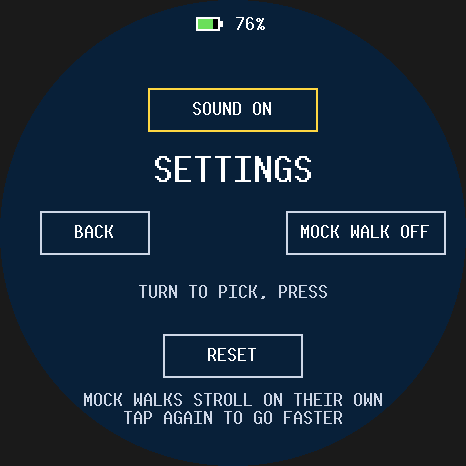
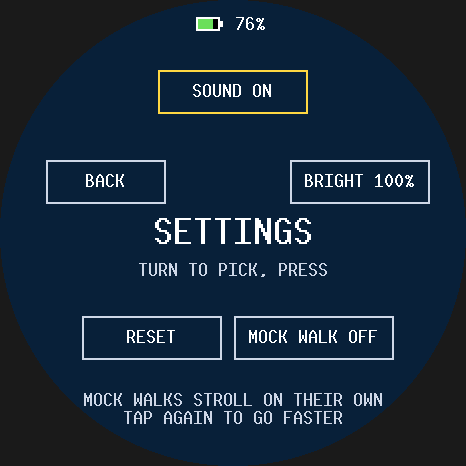
settings: BRIGHT steps the panel through 25, 50, 75 and 100% for every game. Saved in PREF v2 (v1 reads as full); the board reads it from the save each frame and sets register 0x51, idle dims to a quarter of it, and the desktop scales its pixels. The settings dial has five spots now; devlog beat 57

Changed region(s): [[0.0601, 0.3305, 0.9614, 0.8112], [0.3004, 0.1502, 0.691, 0.3004]]

diff --git a/firmware/src/lib.rs b/firmware/src/lib.rs
@@ -52,7 +52,7 @@ use log::{info, warn};
 use orbit_audio::{Mixer, SAMPLE_RATE};
 use orbit_core::{
     Battery, Buttons, Frame, Gps, ImuFeed, ImuSample, Launcher, Mic, Power, Rng, SaveBlob,
-    SoundQueue, Touch,
+    SoundQueue, Touch, preferences,
 };
 use orbit_gfx::{Presenter, Rgb565, SCREEN_SIZE};
 use orbit_save::SlotStore;
@@ -97,7 +97,8 @@ const FRAME_BUDGET: Duration = Duration::from_micros(16_667);
 /// While the game reports itself idle: 20 Hz and a dimmed panel.
 const IDLE_FRAME_BUDGET: Duration = Duration::from_millis(50);
 const FULL_BRIGHTNESS: u8 = 0xFF;
-const IDLE_BRIGHTNESS: u8 = 0x40;
+/// Idle dims the panel to this fraction of the chosen brightness.
+const IDLE_DIVISOR: u16 = 4;
 const BATTERY_POLL_MS: u64 = 5000;
 /// The LC76G reports every second; this long without a byte while an app
 /// listens means it has stalled, and it's restarted.
@@ -358,13 +359,9 @@ impl Board {
         {
             start_mic(&mut speaker.mic, self.bus);
         }
-        if let Err(err) = self.display.set_brightness(FULL_BRIGHTNESS) {
-            warn!("brightness change failed: {err:?}");
-        }
-
         let mut presenter = Presenter::new(vec![0u8; BAND_BYTES], background);
         let mut stats = Stats::new();
-        let mut dimmed = false;
+        let mut brightness = None;
         loop {
             let frame_start = HalInstant::now();
             self.feed_inputs(app.world_mut());
@@ -391,14 +388,13 @@ impl Board {
             if app.should_exit().is_some() {
                 return app;
             }
-            let idle_now = power.is_some_and(|power| power.idle);
-            if idle_now != dimmed {
-                dimmed = idle_now;
-                let level = if dimmed {
-                    IDLE_BRIGHTNESS
-                } else {
-                    FULL_BRIGHTNESS
-                };
+            let dimmed = power.is_some_and(|power| power.idle);
+            let level = panel_brightness(
+                preferences::brightness(app.world().resource::<SaveBlob>()),
+                dimmed,
+            );
+            if brightness != Some(level) {
+                brightness = Some(level);
                 if let Err(err) = self.display.set_brightness(level) {
                     warn!("brightness change failed: {err:?}");
                 }
@@ -665,6 +661,14 @@ fn start_mic(port: &mut MicPort, bus: &'static Bus) {
         }
         Err(err) => warn!("ES7210 init failed ({err:?}); no voice commands"),
     }
+}
+
+/// The panel's brightness register for the chosen `percent`, a quarter of
+/// it while idle (never fully dark).
+fn panel_brightness(percent: u8, idle: bool) -> u8 {
+    let level = u16::from(FULL_BRIGHTNESS) * u16::from(percent) / 100;
+    let level = if idle { level / IDLE_DIVISOR } else { level };
+    level.clamp(1, u16::from(FULL_BRIGHTNESS)) as u8
 }
 
 fn audio_status(audio: &AudioOut) -> String {

diff --git a/crates/pals_game/src/town/draw.rs b/crates/pals_game/src/town/draw.rs
@@ -5,7 +5,7 @@ use alloc::{format, vec::Vec};
 
 use angler_game::sprites::ANGLER;
 use bevy::prelude::*;
-use orbit_core::{Frame, Power, SoundQueue, Tilt};
+use orbit_core::{Frame, Power, SaveBlob, SoundQueue, Tilt, preferences};
 use orbit_gfx::{Point, Rgb565, Shape, SpriteRef};
 use orbit_ui::{
     DANGER, DEEP, GOLD, HINT, TEXT, battery_level, battery_level_on, dial_choice, disc,
@@ -32,6 +32,7 @@ pub(crate) fn draw_frame(
     pals: Res<Pals>,
     tilt: Res<Tilt>,
     sound: Res<SoundQueue>,
+    blob: Res<SaveBlob>,
     power: Res<Power>,
     mut frame: ResMut<Frame>,
 ) {
@@ -47,6 +48,7 @@ pub(crate) fn draw_frame(
             shapes,
             &pals,
             &sound,
+            preferences::brightness(&blob),
             dial_choice(tilt.steer_deg, SETTINGS_CHOICES),
         ),
         TownPhase::ConfirmReset => confirm_reset(shapes, tilt.steer_deg >= ERASE_TURN_DEG),
@@ -136,10 +138,16 @@ fn hud(shapes: &mut Vec<Shape>, town: &Town, pals: &Pals) {
     plated_lines(shapes, lines, GRASS);
 }
 
-fn settings(shapes: &mut Vec<Shape>, pals: &Pals, sound: &SoundQueue, pointed: usize) {
+fn settings(
+    shapes: &mut Vec<Shape>,
+    pals: &Pals,
+    sound: &SoundQueue,
+    brightness: u8,
+    pointed: usize,
+) {
     shapes.push(rect(0, 0, 466, 466, DEEP));
-    shapes.push(label(170, "SETTINGS", 2, TEXT));
-    shapes.push(label(292, "TURN TO PICK, PRESS", 1, HINT));
+    shapes.push(label(232, "SETTINGS", 2, TEXT));
+    shapes.push(label(270, "TURN TO PICK, PRESS", 1, HINT));
     let mock = if pals.mock_walk {
         format!("MOCK WALK x{}", pals::MOCK_PACES[pals.mock_pace] as u32)
     } else {
@@ -150,7 +158,8 @@ fn settings(shapes: &mut Vec<Shape>, pals: &Pals, sound: &SoundQueue, pointed: u
     } else {
         "SOUND ON"
     };
-    let texts = [sound, mock.as_str(), "RESET", "BACK"];
+    let bright = format!("BRIGHT {brightness}%");
+    let texts = [sound, bright.as_str(), mock.as_str(), "RESET", "BACK"];
     for (i, (area, text)) in ui::SETTINGS_BUTTONS.iter().zip(texts).enumerate() {
         let frame = if i == pointed { GOLD } else { HINT };
         labelled_button(shapes, area, text, frame);

diff --git a/crates/orbit_core/src/preferences.rs b/crates/orbit_core/src/preferences.rs
@@ -1,22 +1,48 @@
 //! Settings shared by every game on the board, kept in their own save
-//! section: `version | flags`, bit 0 = muted.
+//! section: `version | flags | brightness`, flags bit 0 = muted, brightness
+//! in percent. Version 1 had no brightness byte and reads as full.
 
 use alloc::vec;
 
 use crate::{SaveBlob, SoundQueue};
 
 pub const KEY: [u8; 4] = *b"PREF";
-const VERSION: u8 = 1;
+const VERSION: u8 = 2;
 const MUTED: u8 = 1 << 0;
+/// The brightnesses the settings step through, in percent.
+pub const BRIGHTNESS_LEVELS: [u8; 4] = [25, 50, 75, 100];
+const FULL: u8 = 100;
 
 pub fn muted(blob: &SaveBlob) -> bool {
+    flags(blob) & MUTED != 0
+}
+
+/// The panel brightness every game shows at, in percent.
+pub fn brightness(blob: &SaveBlob) -> u8 {
     blob.section(&KEY)
-        .and_then(|bytes| bytes.get(1))
-        .is_some_and(|flags| flags & MUTED != 0)
+        .and_then(|bytes| bytes.get(2).copied())
+        .filter(|percent| (1..=FULL).contains(percent))
+        .unwrap_or(FULL)
 }
 
 /// Mutes or unmutes the speaker now and saves the choice for every game.
 pub fn set_muted(blob: &mut SaveBlob, sound: &mut SoundQueue, muted: bool) {
     sound.set_muted(muted);
-    blob.save_section(KEY, vec![VERSION, if muted { MUTED } else { 0 }]);
+    let flags = if muted { MUTED } else { 0 };
+    store(blob, flags, brightness(blob));
+}
+
+/// Saves the panel brightness for every game; the platform applies it.
+pub fn set_brightness(blob: &mut SaveBlob, percent: u8) {
+    store(blob, flags(blob), percent.clamp(1, FULL));
+}
+
+fn flags(blob: &SaveBlob) -> u8 {
+    blob.section(&KEY)
+        .and_then(|bytes| bytes.get(1).copied())
+        .unwrap_or(0)
+}
+
+fn store(blob: &mut SaveBlob, flags: u8, brightness: u8) {
+    blob.save_section(KEY, vec![VERSION, flags, brightness]);
 }

diff --git a/crates/pals_game/src/town/mod.rs b/crates/pals_game/src/town/mod.rs
@@ -45,9 +45,9 @@ const DOOR_REACH: f32 = 40.0;
 /// After coming out of a place or the settings, nothing goes in for this
 /// long, so the press that came out can't go straight back in.
 pub const ENTRY_LOCK_SECS: f32 = 2.0;
-/// Spots on the settings dial, clockwise from 12 o'clock: sound, mock walk,
-/// reset, back.
-pub const SETTINGS_CHOICES: usize = 4;
+/// Spots on the settings dial, clockwise from 12 o'clock: sound, brightness,
+/// mock walk, reset, back.
+pub const SETTINGS_CHOICES: usize = 5;
 /// On the reset question, turning right past this points at ERASE.
 const ERASE_TURN_DEG: f32 = 10.0;
 
@@ -393,6 +393,12 @@ fn roam(
                     preferences::set_muted(&mut blob, &mut sound, muted);
                 }
                 Some(1) => {
+                    let now = preferences::brightness(&blob);
+                    let levels = preferences::BRIGHTNESS_LEVELS;
+                    let next = levels.iter().copied().find(|&level| level > now);
+                    preferences::set_brightness(&mut blob, next.unwrap_or(levels[0]));
+                }
+                Some(2) => {
                     // Off, then each pace in turn, then off again.
                     match (pals.mock_walk, pals.mock_pace + 1 < pals::MOCK_PACES.len()) {
                         (false, _) => (pals.mock_walk, pals.mock_pace) = (true, 0),
@@ -401,7 +407,7 @@ fn roam(
                     }
                     pals::save::store(&mut blob, &pals);
                 }
-                Some(2) => town.phase = TownPhase::ConfirmReset,
+                Some(3) => town.phase = TownPhase::ConfirmReset,
                 Some(_) => {
                     town.phase = TownPhase::Walking;
                     town.came_out();

diff --git a/desktop/src/main.rs b/desktop/src/main.rs
@@ -35,6 +35,7 @@ use bevy::prelude::*;
 use minifb::{Key, MouseButton, MouseMode, Window, WindowOptions};
 use orbit_core::{
     Battery, Buttons, Frame, ImuFeed, Launcher, Mic, Power, Rng, SaveBlob, SoundQueue, Touch,
+    preferences,
 };
 use orbit_game::OrbitPlugin;
 use orbit_gfx::Presenter;
@@ -294,10 +295,13 @@ fn run(
             .get_resource::<Power>()
             .copied()
             .unwrap_or_default();
-        if power.idle {
-            for px in pixels.iter_mut() {
-                *px = (*px >> 2) & 0x003F_3F3F;
-            }
+        let percent = app
+            .world()
+            .get_resource::<SaveBlob>()
+            .map_or(100, preferences::brightness);
+        let percent = if power.idle { percent / 4 } else { percent };
+        if percent < 100 {
+            dim(pixels, percent);
         }
         window.set_target_fps(if power.idle { 20 } else { 60 });
         window
@@ -318,6 +322,15 @@ fn run(
         }
     }
     Ended::Closed
+}
+
+/// Scales every channel to `percent` of itself, like the panel's brightness.
+fn dim(pixels: &mut [u32], percent: u8) {
+    let scale = u32::from(percent);
+    for px in pixels.iter_mut() {
+        let channel = |shift: u32| ((*px >> shift & 0xFF) * scale / 100) << shift;
+        *px = channel(16) | channel(8) | channel(0);
+    }
 }
 
 /// Keeps the last frame up until Z (BOOT) is released, then a dark panel

diff --git a/crates/orbit_core/tests/core.rs b/crates/orbit_core/tests/core.rs
@@ -356,6 +356,33 @@ fn muting_stops_the_current_sound_and_drops_new_ones() {
 }
 
 #[test]
+fn brightness_is_full_until_set_and_mute_and_brightness_keep_each_other() {
+    let mut blob = SaveBlob::from_storage(None);
+    let mut sound = SoundQueue::default();
+    assert_eq!(preferences::brightness(&blob), 100);
+    preferences::set_muted(&mut blob, &mut sound, true);
+    preferences::set_brightness(&mut blob, 50);
+    assert_eq!(preferences::brightness(&blob), 50);
+    assert!(preferences::muted(&blob));
+    preferences::set_muted(&mut blob, &mut sound, false);
+    assert_eq!(
+        preferences::brightness(&blob),
+        50,
+        "unmuting keeps the brightness"
+    );
+    let rebooted = SaveBlob::from_storage(blob.take_pending());
+    assert_eq!(preferences::brightness(&rebooted), 50);
+}
+
+#[test]
+fn preferences_saved_before_brightness_read_as_full() {
+    let mut blob = SaveBlob::from_storage(None);
+    blob.save_section(preferences::KEY, vec![1, 1]);
+    assert_eq!(preferences::brightness(&blob), 100);
+    assert!(preferences::muted(&blob));
+}
+
+#[test]
 fn the_mute_preference_is_saved_and_applies_at_the_next_boot() {
     let mut app = sound_app(None);
     assert!(!app.world().resource::<SoundQueue>().muted());

diff --git a/crates/pals_game/src/town/ui.rs b/crates/pals_game/src/town/ui.rs
@@ -2,11 +2,12 @@
 
 pub use orbit_ui::Button;
 
-/// Settings, clockwise from 12 o'clock as on its dial.
-pub const SOUND: Button = Button::new(148, 88, 170, 44, "SOUND");
-pub const MOCK_WALK: Button = Button::new(286, 211, 160, 44, "MOCK WALK");
-pub const RESET: Button = Button::new(163, 334, 140, 44, "RESET");
-pub const BACK: Button = Button::new(40, 211, 110, 44, "BACK");
-pub const SETTINGS_BUTTONS: [Button; 4] = [SOUND, MOCK_WALK, RESET, BACK];
+/// Settings, clockwise from 12 o'clock as on its five-spot dial.
+pub const SOUND: Button = Button::new(158, 70, 150, 44, "SOUND");
+pub const BRIGHTNESS: Button = Button::new(290, 160, 140, 44, "BRIGHT");
+pub const MOCK_WALK: Button = Button::new(234, 316, 160, 44, "MOCK WALK");
+pub const RESET: Button = Button::new(82, 316, 140, 44, "RESET");
+pub const BACK: Button = Button::new(46, 160, 120, 44, "BACK");
+pub const SETTINGS_BUTTONS: [Button; 5] = [SOUND, BRIGHTNESS, MOCK_WALK, RESET, BACK];
 pub const KEEP: Button = Button::new(88, 300, 140, 44, "KEEP");
 pub const ERASE: Button = Button::new(238, 300, 140, 44, "ERASE");

diff --git a/crates/pals_game/tests/town.rs b/crates/pals_game/tests/town.rs
@@ -531,13 +531,32 @@ fn mock_walk_steps_through_its_paces_then_off() {
 #[test]
 fn the_settings_dial_turns_and_pwr_picks() {
     let mut app = open_settings();
-    set_tilt(&mut app, 30.0, 0.0);
+    set_tilt(&mut app, 24.0, 0.0);
+    update(&mut app);
+    click_action(&mut app);
+    assert_eq!(
+        preferences::brightness(&saved(&mut app)),
+        25,
+        "the first spot clockwise is BRIGHT"
+    );
+    set_tilt(&mut app, 48.0, 0.0);
     update(&mut app);
     click_action(&mut app);
     assert!(
         app.world().resource::<Pals>().mock_walk,
-        "3 o'clock is MOCK WALK"
+        "the next is MOCK WALK"
     );
+}
+
+#[test]
+fn settings_step_the_brightness_round_and_save_it() {
+    let mut app = open_settings();
+    assert!(shows(&app, "BRIGHT 100%"));
+    for level in [25, 50, 75, 100] {
+        tap(&mut app, ui::BRIGHTNESS.center());
+        assert!(shows(&app, &format!("BRIGHT {level}%")), "{level}");
+        assert_eq!(preferences::brightness(&saved(&mut app)), level);
+    }
 }
 
 #[test]

diff --git a/devlog/beats.md b/devlog/beats.md
@@ -1073,3 +1073,17 @@ Images are in `img/`. Newest beats go at the bottom.
   through at 10:30: after, there's daylight between the glass and the ledge).
   - TODO(user): a photo of the stuck button, and of the third print with the board screwed
     down.
+
+## 57. A brightness setting (2026-10-10)
+
+- **The ask:** "add brightness to the settings menu"
+- **The fix:** the signpost's settings dial goes from four spots to five: SOUND, BRIGHT, MOCK
+  WALK, RESET, BACK, with the title in the middle. BRIGHT steps 25, 50, 75, 100% and is saved
+  with the other shared preferences, so every game shows at it. The board sets the panel's
+  brightness register from it, and idle still dims to a quarter of whatever you chose. Old saves
+  read as 100%.
+- **Why it's cheap:** no new Bevy resource or system (each costs heap, and Orbit has 12 KB to
+  spare). The platform reads the preference straight from the save data every frame.
+- **The numbers:** a full-screen AMOLED's draw scales with brightness, so 50% should roughly
+  halve the panel's share of the battery.
+- **Media:** `img/57-before-settings.png`, `img/57-after-settings.png`.

diff --git a/docs/ESP32_PLATFORM.md b/docs/ESP32_PLATFORM.md
@@ -1090,7 +1090,11 @@ touch, so a worn button never blocks play; only sleep (holding BOOT) needs a but
   path. Every door sits below its landmark. A walk in that gets stuck (behind the building,
   say) goes round once: straight out past its nearer side, down that side, then to the door.
   The contest hall stands left of its clearing, off the path from the pond.
-- **Settings** (the signpost by the house): SOUND, MOCK WALK, RESET and BACK on a dial. MOCK
+- **Settings** (the signpost by the house): SOUND, BRIGHT, MOCK WALK, RESET and BACK on a
+  five-spot dial. BRIGHT steps 25, 50, 75 and 100% (`preferences::BRIGHTNESS_LEVELS`, saved in
+  `PREF` version 2 as a third byte; version 1 reads as 100%). The platform reads it from the
+  `SaveBlob` every frame and sets the panel's 0x51 register (idle dims to a quarter of it); the
+  desktop scales its pixels. MOCK
   WALK steps OFF, x1, x2, x5, x10, x25 and back to OFF. RESET asks first; ERASE drops every
   section but `PREF` and keeps the mock-walk setting.
 
